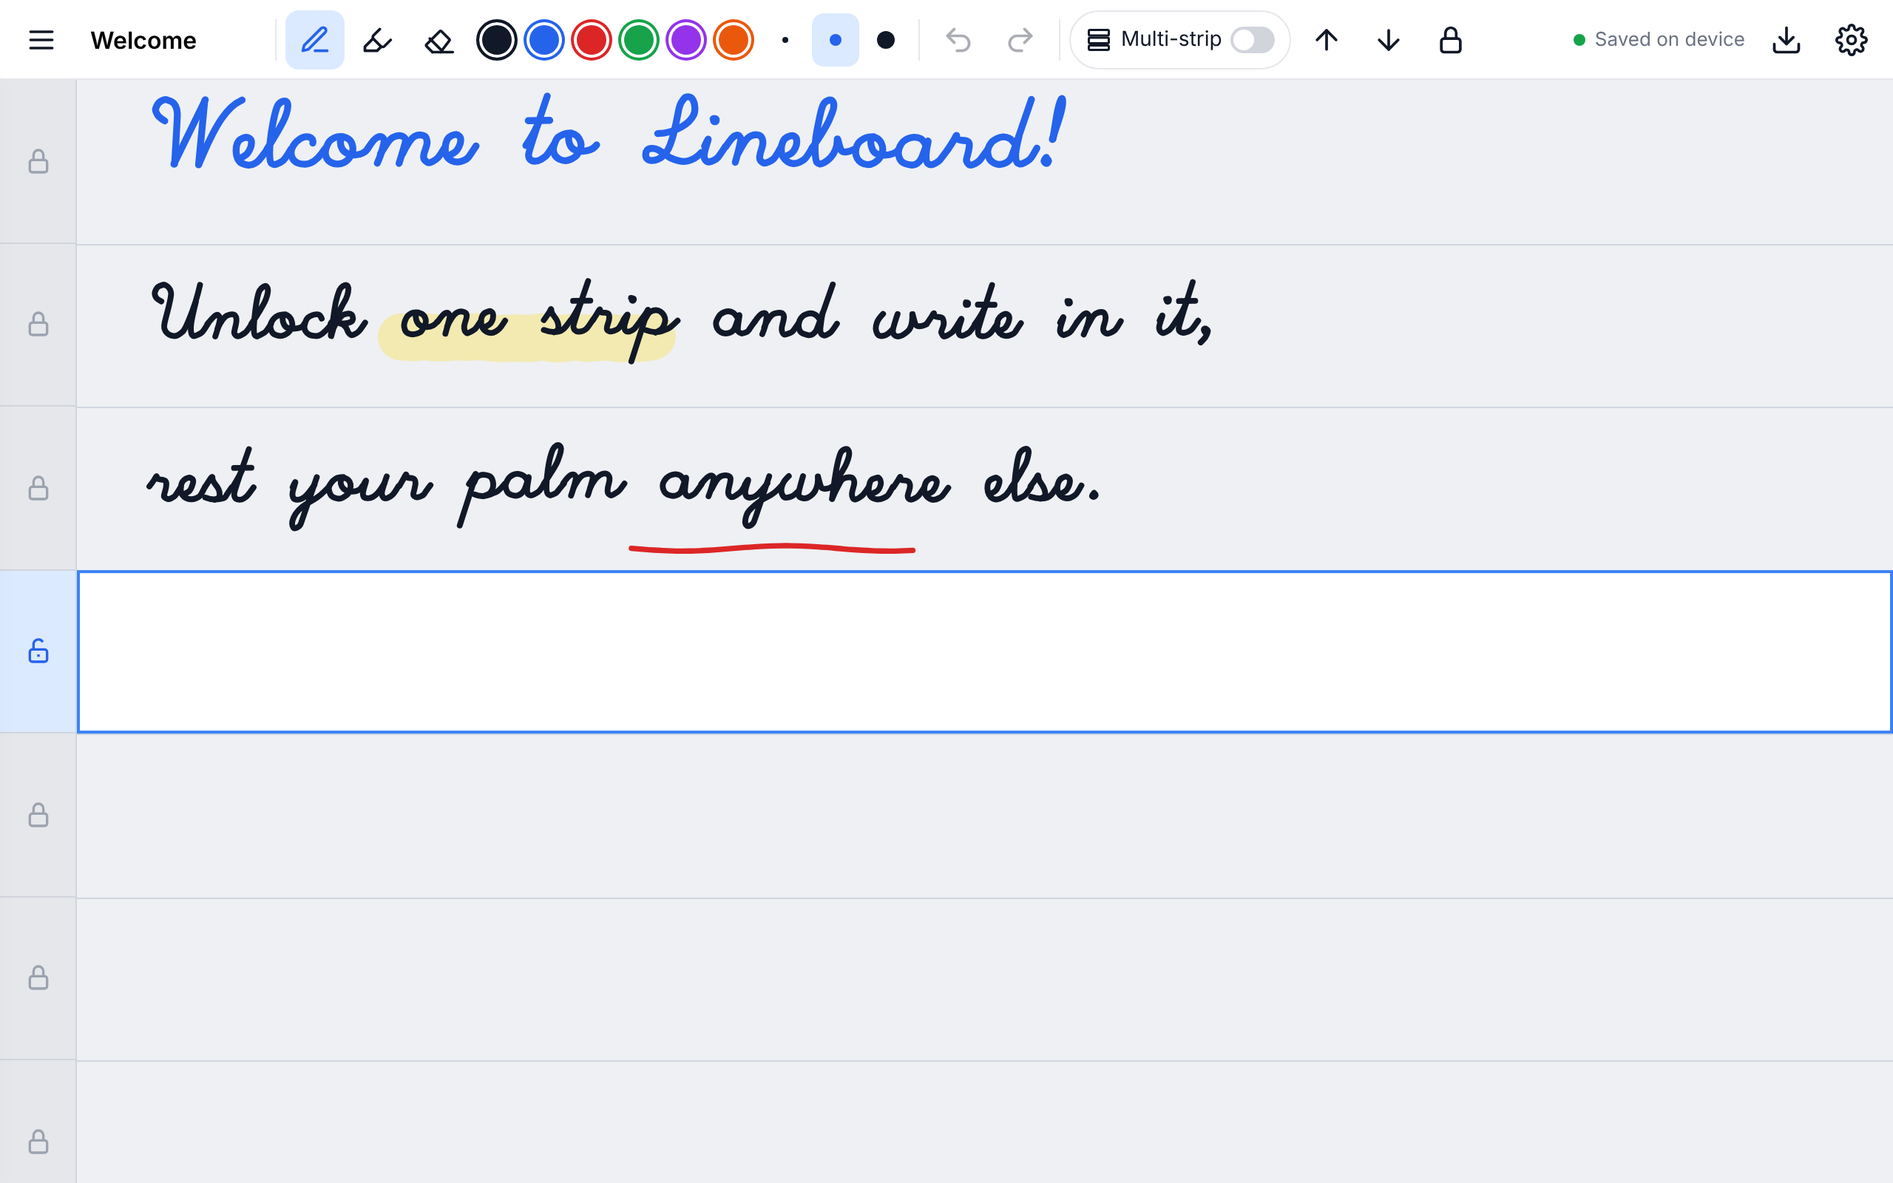
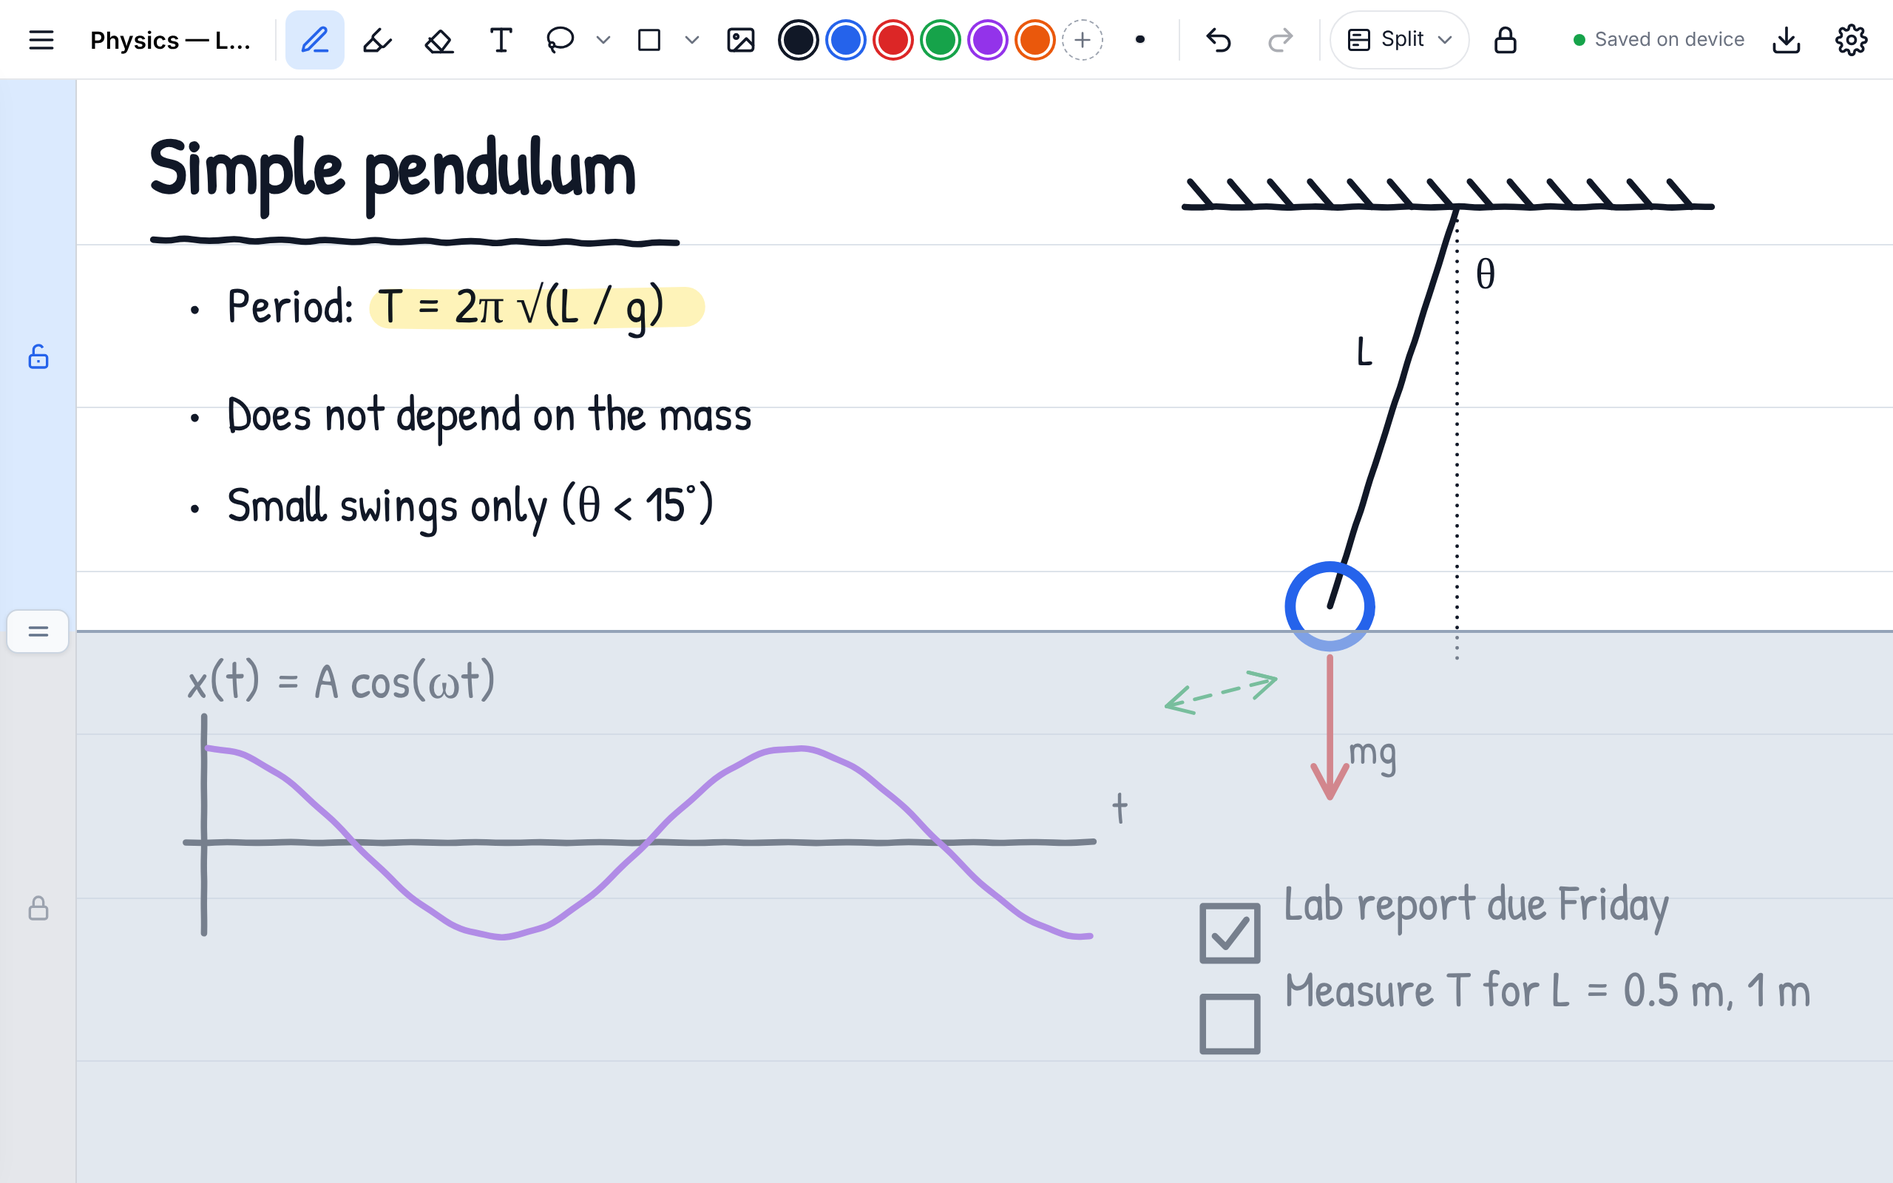
Show-password eye, split mode by default, a new README screenshot
- Every password field (sign-in, sign-up, new password, Confirm it's
  you, Change password, encryption passphrases) gets a show / hide eye.
  Pressing it keeps the caret in the field, and the field goes back to
  hidden when its form is sent.
- New users start in split mode (top half open, bottom half palm-safe);
  the first-visit hint explains split. Saved choices are unchanged.
  Tests start in strips through a shared storage state, plus a test of
  the new default.
- docs/screenshot.png redone: a lecture note in split mode with
  handwritten text, a highlight, a shape diagram, a sine wave and a
  to-do list. `npm run screenshot` regenerates it through the app.

Claude-Session: https://claude.ai/code/session_019x6LTshFfvXQcR2avGtFNo

diff --git a/tests/readme-screenshot.spec.ts b/tests/readme-screenshot.spec.ts
@@ -1,0 +1,125 @@
+import { test, type Page } from '@playwright/test';
+import { send, tp } from './helpers';
+
+/**
+ * Builds the README screenshot (docs/screenshot.png) by writing a page through the app itself.
+ * Skipped in the normal test run; regenerate with `npm run screenshot`.
+ */
+test.skip(!process.env.SCREENSHOT, 'run with npm run screenshot');
+test.use({ viewport: { width: 1280, height: 800 }, deviceScaleFactor: 2, storageState: { cookies: [], origins: [{ origin: 'http://localhost:4173', localStorage: [{ name: 'lb-storage-notice', value: 'true' }, { name: 'lb-hint-dismissed', value: 'true' }, { name: 'lb-settings-local', value: JSON.stringify({ mode: 'free' }) }] }] } });
+
+test('screenshot', async ({ page }) => {
+  test.setTimeout(120_000);
+  await page.goto('/app');
+  await page.locator('.canvas-area[data-note]:not([aria-busy])').waitFor();
+  const cdp = await page.context().newCDPSession(page);
+  const area = (await page.locator('.canvas-area').boundingBox())!;
+  const k = area.width / 1000;
+  const at = (x: number, y: number) => ({ x: area.x + x * k, y: area.y + y * k });
+  const R = 1;
+
+  const stroke = async (pts: [number, number][]) => {
+    const p0 = at(...pts[0]);
+    await send(cdp, 'touchStart', [tp(p0.x, p0.y, R, 1)]);
+    for (const p of pts.slice(1)) {
+      const q = at(...p);
+      await send(cdp, 'touchMove', [tp(q.x, q.y, R, 1)]);
+    }
+    await send(cdp, 'touchEnd', []);
+  };
+  // A slightly wobbly line, like a hand-drawn one.
+  const wobbly = (x0: number, y0: number, x1: number, y1: number, n = 24, amp = 1.2): [number, number][] =>
+    Array.from({ length: n + 1 }, (_, i) => {
+      const t = i / n;
+      return [x0 + (x1 - x0) * t + Math.sin(i * 1.7) * amp * 0.3, y0 + (y1 - y0) * t + Math.sin(i * 2.3) * amp];
+    });
+  const color = async (c: string) => page.getByRole('button', { name: 'Color ' + c }).click();
+  const tool = async (key: string) => page.keyboard.press(key);
+
+  async function text(x: number, y: number, s: string, opts: { size?: 'up' | 'up2' | 'down'; bold?: boolean } = {}) {
+    await tool('t');
+    const p = at(x, y);
+    await send(cdp, 'touchStart', [tp(p.x, p.y, 3, 2)]);
+    await send(cdp, 'touchEnd', []);
+    const bar = page.getByRole('toolbar', { name: 'Text format' });
+    await bar.getByRole('radio', { name: 'Handwriting' }).click();
+    const want = opts.size === 'up2' ? 44 : opts.size === 'up' ? 36 : opts.size === 'down' ? 24 : 28;
+    for (let i = 0; i < 6; i++) {
+      const cur = Number(await bar.locator('.tb-size').textContent());
+      if (cur === want) break;
+      await bar.getByRole('button', { name: cur < want ? 'Larger text' : 'Smaller text' }).click();
+    }
+    const b = bar.getByRole('button', { name: 'Bold' });
+    if ((await b.getAttribute('aria-pressed')) !== String(!!opts.bold)) await b.click();
+    await page.keyboard.type(s);
+    await page.keyboard.press('Escape');
+  }
+
+  async function shape(name: string, x0: number, y0: number, x1: number, y1: number, style = 'Solid', thick = 'Medium') {
+    await page.locator('.shape-btn').click();
+    await page.getByRole('radiogroup', { name: 'Line style' }).getByRole('radio', { name: style }).click();
+    await page.getByRole('radiogroup', { name: 'Thickness' }).getByRole('radio', { name: thick, exact: true }).click();
+    await page.locator('.shape-grid').getByRole('radio', { name, exact: true }).click();
+    await stroke([[x0, y0], [(x0 + x1) / 2, (y0 + y1) / 2], [x1, y1]]);
+  }
+
+  // ---- left: notes ----
+  await color('#111827');
+  await text(40, 40, 'Simple pendulum', { size: 'up2', bold: true });
+  await tool('p');
+  await stroke(wobbly(42, 88, 330, 90, 30, 1.5)); // underline
+  await text(60, 135, '•  Period:  T = 2π √(L / g)');
+  await text(60, 185, '•  Does not depend on the mass');
+  await text(60, 235, '•  Small swings only (θ < 15°)');
+  await tool('h');
+  await stroke([[172, 94], [255, 95], [335, 93]]); // highlight the formula
+  // ---- right: the diagram ----
+  await tool('p');
+  await color('#111827');
+  await stroke(wobbly(610, 70, 900, 70, 30, 0.8)); // ceiling
+  for (let x = 625; x < 900; x += 22) await stroke([[x, 70], [x - 12, 56]]); // hatching
+  await stroke(wobbly(760, 70, 690, 290, 26, 0.6)); // string
+  await shape('Line', 760, 72, 760, 320, 'Dotted', 'Thin'); // rest position
+  await color('#2563eb');
+  await shape('Ellipse', 668, 268, 712, 312, 'Solid', 'Bold'); // bob
+  await color('#dc2626');
+  await shape('Arrow line', 690, 318, 690, 395, 'Solid', 'Medium'); // weight
+  await color('#111827');
+  await text(700, 372, 'mg', { size: 'down' });
+  await text(705, 150, 'L', { size: 'down' });
+  await text(770, 108, 'θ', { size: 'down' });
+  await color('#16a34a');
+  await shape('Double arrow line', 600, 345, 660, 330, 'Dashed', 'Thin'); // swing
+
+  // ---- lower: the motion ----
+  await color('#111827');
+  await text(60, 330, 'x(t) = A cos(ωt)');
+  await tool('p');
+  await stroke(wobbly(60, 420, 560, 420, 40, 0.6)); // time axis
+  await stroke(wobbly(70, 470, 70, 350, 20, 0.5)); // x axis
+  await color('#9333ea');
+  const wave: [number, number][] = [];
+  for (let i = 0; i <= 90; i++) {
+    const x = 72 + i * 5.4;
+    wave.push([x, 420 - 52 * Math.cos(i / 9.5) + Math.sin(i * 1.3) * 0.6]);
+  }
+  await stroke(wave);
+  await color('#111827');
+  await text(570, 405, 't', { size: 'down' });
+
+  // ---- to-do, bottom right ----
+  await shape('Check box', 620, 455, 650, 485, 'Solid', 'Medium');
+  await text(665, 452, 'Lab report due Friday');
+  await shape('Rectangle', 620, 505, 650, 535, 'Solid', 'Medium');
+  await text(665, 502, 'Measure T for L = 0.5 m, 1 m');
+
+  // Title, then the default mode: split (top half open, bottom half palm-safe).
+  await page.locator('.title-input').fill('Physics — Lecture 4');
+  await page.locator('.title-input').press('Enter');
+  await page.locator('.mode-btn').click();
+  await page.getByRole('menuitemradio', { name: /^Split/ }).click();
+  await page.keyboard.press('p');
+  await page.mouse.move(0, 0);
+  await page.waitForTimeout(3500); // let the mode toast fade
+  await page.screenshot({ path: 'docs/screenshot.png' });
+});

diff --git a/src/auth.ts b/src/auth.ts
@@ -1,5 +1,5 @@
 import type { SupabaseClient } from '@supabase/supabase-js';
-import { h } from './util';
+import { h, withReveal } from './util';
 import { publicFooter } from './public';
 import { logo } from './brand';
 import { passkeysSupported } from './account';
@@ -33,7 +33,7 @@ export function renderAuth(root: HTMLElement, sb: SupabaseClient, opts: AuthOpti
   const extra = h('div', { class: 'auth-extra' });
   // Bot check (only when configured): sign-in, sign-up, email links, resets and passkeys need a token.
   const captcha = new Captcha();
-  const form = h('form', { class: 'auth-form' }, h('label', {}, 'Email', email), h('label', { class: 'password-label' }, 'Password', pass), agreement, captcha.el, submit);
+  const form = h('form', { class: 'auth-form' }, h('label', {}, 'Email', email), h('label', { class: 'password-label' }, 'Password', withReveal(pass)), agreement, captcha.el, submit);
 
   const setMsg = (t: string, kind: 'ok' | 'err' = 'ok') => {
     msg.textContent = t;
@@ -188,7 +188,7 @@ export function renderAuth(root: HTMLElement, sb: SupabaseClient, opts: AuthOpti
 export function renderNewPassword(root: HTMLElement, sb: SupabaseClient, done: () => void) {
   const pass = h('input', { type: 'password', placeholder: `New password (at least ${MIN_PASSWORD} characters)`, autocomplete: 'new-password', minlength: String(MIN_PASSWORD), required: true }) as HTMLInputElement;
   const msg = h('p', { class: 'auth-msg' });
-  const form = h('form', { class: 'auth-form' }, pass, h('button', { class: 'btn primary wide', type: 'submit' }, 'Set new password'));
+  const form = h('form', { class: 'auth-form' }, h('label', {}, 'New password', withReveal(pass)), h('button', { class: 'btn primary wide', type: 'submit' }, 'Set new password'));
   const others = h('input', { type: 'checkbox', checked: true }) as HTMLInputElement;
   form.insertBefore(h('label', { class: 'set-check' }, others, h('span', {}, 'Sign out all other devices')), form.lastChild);
   form.addEventListener('submit', async (e) => {

diff --git a/src/util.ts b/src/util.ts
@@ -1,3 +1,4 @@
+import { icons } from './icons';
 export function uuid(): string {
   if (typeof crypto.randomUUID === 'function') return crypto.randomUUID();
   const b = crypto.getRandomValues(new Uint8Array(16));
@@ -20,6 +21,35 @@ export function h<K extends keyof HTMLElementTagNameMap>(
   }
   for (const c of children) if (c != null) e.append(c);
   return e;
+}
+
+/**
+ * A password field with a show / hide button (the eye), so a typing mistake can be checked.
+ * Pressing it keeps the caret in the field; the field goes back to hidden when the form is sent.
+ */
+export function withReveal(input: HTMLInputElement): HTMLElement {
+  const btn = h('button', { class: 'reveal-btn', type: 'button', 'aria-label': 'Show password', 'aria-pressed': 'false', title: 'Show password' }) as HTMLButtonElement;
+  const paint = () => {
+    const shown = input.type === 'text';
+    btn.innerHTML = shown ? icons.eyeOff : icons.eye;
+    btn.setAttribute('aria-label', shown ? 'Hide password' : 'Show password');
+    btn.title = shown ? 'Hide password' : 'Show password';
+    btn.setAttribute('aria-pressed', String(shown));
+  };
+  btn.addEventListener('pointerdown', (e) => e.preventDefault()); // keep focus in the field
+  btn.addEventListener('click', () => {
+    input.type = input.type === 'password' ? 'text' : 'password';
+    paint();
+  });
+  // Never leave a password showing once it has been used (the field joins its form right after).
+  queueMicrotask(() =>
+    input.form?.addEventListener('submit', () => {
+      input.type = 'password';
+      paint();
+    }),
+  );
+  paint();
+  return h('span', { class: 'reveal' }, input, btn);
 }
 
 export function debounce<A extends unknown[]>(fn: (...a: A) => void, ms: number) {

diff --git a/src/styles.css b/src/styles.css
@@ -271,6 +271,17 @@ kbd { font: 12px ui-monospace, monospace; background: var(--bg); border: 1px sol
 .unlock-links { display: flex; flex-wrap: wrap; justify-content: space-between; gap: 10px; font-size: 14px; padding-top: 12px; border-top: 1px solid var(--line); }
 .unlock-card input.mono { text-transform: uppercase; }
 
+/* Password fields: the show / hide eye inside the right edge (util.ts withReveal). */
+.reveal { position: relative; display: block; width: 100%; }
+.reveal > input { width: 100%; padding-right: 44px; }
+.reveal-btn {
+  position: absolute; top: 50%; right: 4px; transform: translateY(-50%); width: 36px; height: 36px;
+  display: grid; place-items: center; border: 0; border-radius: 8px; background: transparent; color: var(--muted, #6b7280); cursor: pointer;
+}
+.reveal-btn svg { width: 20px; height: 20px; }
+.reveal-btn:hover, .reveal-btn[aria-pressed=true] { color: var(--ink, #111827); }
+.reveal-btn:focus-visible { outline: 2px solid var(--accent, #2563eb); outline-offset: 1px; }
+
 /* One-time notice about browser storage (see storageNotice.ts). */
 .storage-notice {
   position: fixed; left: 12px; bottom: 12px; z-index: 90; max-width: min(440px, calc(100vw - 24px));

diff --git a/tests/security.spec.ts b/tests/security.spec.ts
@@ -77,3 +77,22 @@ test('new passwords need at least 8 characters; signing in still takes an older,
   await fillSignIn(page, 'old123');
   await attachBoard(page);
 });
+
+test('password fields have a show / hide eye, and go back to hidden once submitted', async ({ page }) => {
+  await mockSupabase(page);
+  await page.goto('/signup');
+  const pass = page.getByLabel('Password', { exact: true });
+  await pass.fill('my secret pass');
+  await expect(pass).toHaveAttribute('type', 'password');
+  const eye = page.getByRole('button', { name: 'Show password' });
+  await eye.click();
+  await expect(pass).toHaveAttribute('type', 'text');
+  await expect(pass).toBeFocused(); // pressing the eye keeps typing in the field
+  await page.getByRole('button', { name: 'Hide password' }).click();
+  await expect(pass).toHaveAttribute('type', 'password');
+  // Shown, then the form is sent: hidden again.
+  await page.getByRole('button', { name: 'Show password' }).click();
+  await page.getByLabel('Email', { exact: true }).fill('new@example.com');
+  await page.getByRole('button', { name: 'Create account' }).click();
+  await expect(pass).toHaveAttribute('type', 'password');
+});

diff --git a/src/app.ts b/src/app.ts
@@ -344,8 +344,12 @@ export class App {
     // Board
     const boardHost = h('div', { class: 'board-host' });
     this.hint = h('div', { class: 'hint' });
-    this.hint.innerHTML =
-      '<b>How it works:</b> tap a 🔒 in the margin to unlock one strip. Only that strip takes ink, so rest your palm anywhere else. Drag the margin to scroll. <button type="button" class="link">Got it</button>';
+    // The first-visit explanation matches the mode the page opens in (split, for new users).
+    const how =
+      this.settings.mode === 'split'
+        ? 'write in the open half of the screen and rest your palm on the locked half. Tap a 🔒 in the margin to switch halves; drag the margin to scroll.'
+        : 'tap a 🔒 in the margin to unlock one strip. Only that strip takes ink, so rest your palm anywhere else. Drag the margin to scroll.';
+    this.hint.innerHTML = `<b>How it works:</b> ${how} <button type="button" class="link">Got it</button>`;
     this.hint.querySelector('button')!.addEventListener('click', () => {
       this.hint.remove();
       lsSet('lb-hint-dismissed', true);

diff --git a/tests/images.spec.ts b/tests/images.spec.ts
@@ -1,4 +1,5 @@
 import { readFileSync } from 'node:fs';
+import { TEST_STORAGE } from './storageState';
 import { expect, test, type Browser, type CDPSession, type Page } from '@playwright/test';
 import { PEN, drag, expectStrokes, send, setup, tp } from './helpers';
 import { USER_ID, mockSupabase, type MockDb } from './mockSupabase';
@@ -148,7 +149,7 @@ async function turnOnEncryption(page: Page, expectDone = 'Your notes are encrypt
 }
 
 async function otherDevice(browser: Browser, db: MockDb) {
-  const context = await browser.newContext({ baseURL: 'http://localhost:4173', viewport: { width: 800, height: 1280 }, hasTouch: true, serviceWorkers: 'block', storageState: { cookies: [], origins: [{ origin: 'http://localhost:4173', localStorage: [{ name: 'lb-storage-notice', value: 'true' }] }] } });
+  const context = await browser.newContext({ baseURL: 'http://localhost:4173', viewport: { width: 800, height: 1280 }, hasTouch: true, serviceWorkers: 'block', storageState: TEST_STORAGE });
   const page = await context.newPage();
   await mockSupabase(page, db);
   return page;

diff --git a/tests/account.spec.ts b/tests/account.spec.ts
@@ -1,4 +1,5 @@
 import { expect, test, type Browser, type Page } from '@playwright/test';
+import { TEST_STORAGE } from './storageState';
 import { MOCK_TOTP, mockSupabase, recoveryHash, type MockDb } from './mockSupabase';
 
 /** Signed-in devices, password changes, two-step verification (authenticator app) and passkeys. */
@@ -13,7 +14,7 @@ async function signIn(page: Page) {
 }
 
 async function otherDevice(browser: Browser, db: MockDb, userAgent = ANDROID) {
-  const context = await browser.newContext({ baseURL: 'http://localhost:4173', viewport: { width: 800, height: 1280 }, hasTouch: true, serviceWorkers: 'block', storageState: { cookies: [], origins: [{ origin: 'http://localhost:4173', localStorage: [{ name: 'lb-storage-notice', value: 'true' }] }] }, userAgent });
+  const context = await browser.newContext({ baseURL: 'http://localhost:4173', viewport: { width: 800, height: 1280 }, hasTouch: true, serviceWorkers: 'block', storageState: TEST_STORAGE, userAgent });
   const page = await context.newPage();
   await mockSupabase(page, db);
   return page;

diff --git a/src/encryptionUi.ts b/src/encryptionUi.ts
@@ -2,7 +2,7 @@ import { AccountError } from './account';
 import { logo } from './brand';
 import { MIN_PASSPHRASE, WrongSecretError, type KeyVault } from './crypto/vault';
 import type { SupabaseStore } from './store/supabaseStore';
-import { h, toast } from './util';
+import { h, toast, withReveal } from './util';
 
 /**
  * Screens and dialogs for end-to-end encryption: turning it on (with a recovery key), unlocking
@@ -12,7 +12,8 @@ import { h, toast } from './util';
 // ----------------------------- small building blocks -----------------------------
 
 export function field(label: string, input: HTMLInputElement, help?: string) {
-  return h('label', { class: 'enc-field' }, h('span', {}, label), input, help ? h('small', {}, help) : null);
+  // Password fields get the show / hide eye.
+  return h('label', { class: 'enc-field' }, h('span', {}, label), input.type === 'password' ? withReveal(input) : input, help ? h('small', {}, help) : null);
 }
 
 export function passInput(autocomplete: 'current-password' | 'new-password', placeholder = '') {

diff --git a/tests/encryption.spec.ts b/tests/encryption.spec.ts
@@ -1,4 +1,5 @@
 import { expect, test, type Browser, type Page } from '@playwright/test';
+import { TEST_STORAGE } from './storageState';
 import { attachBoard, drag, stripY } from './helpers';
 import { mockSupabase, type MockDb } from './mockSupabase';
 
@@ -15,7 +16,7 @@ async function signIn(page: Page) {
 
 /** A second device: a fresh browser context sharing the same mock database. */
 async function otherDevice(browser: Browser, db: MockDb) {
-  const context = await browser.newContext({ baseURL: 'http://localhost:4173', viewport: { width: 800, height: 1280 }, hasTouch: true, serviceWorkers: 'block', storageState: { cookies: [], origins: [{ origin: 'http://localhost:4173', localStorage: [{ name: 'lb-storage-notice', value: 'true' }] }] } });
+  const context = await browser.newContext({ baseURL: 'http://localhost:4173', viewport: { width: 800, height: 1280 }, hasTouch: true, serviceWorkers: 'block', storageState: TEST_STORAGE });
   const page = await context.newPage();
   await mockSupabase(page, db);
   return page;

diff --git a/playwright.config.ts b/playwright.config.ts
@@ -1,4 +1,5 @@
 import { defineConfig } from '@playwright/test';
+import { TEST_STORAGE } from './tests/storageState';
 
 export default defineConfig({
   testDir: 'tests',
@@ -14,8 +15,8 @@ export default defineConfig({
     hasTouch: true,
     // Request mocks (tests/mockSupabase.ts) can't see requests made by the app's service worker.
     serviceWorkers: 'block',
-    // The one-time storage notice is dismissed (tests/privacy.spec.ts covers it with fresh storage).
-    storageState: { cookies: [], origins: [{ origin: 'http://localhost:4173', localStorage: [{ name: 'lb-storage-notice', value: 'true' }] }] },
+    // Notice dismissed, strips mode (see tests/storageState.ts).
+    storageState: TEST_STORAGE,
     launchOptions: process.env.CHROME_PATH ? { executablePath: process.env.CHROME_PATH } : {},
   },
   webServer: {

diff --git a/src/icons.ts b/src/icons.ts
@@ -3,6 +3,8 @@ const svg = (body: string) =>
 
 export const icons = {
   menu: svg('<path d="M4 6h16M4 12h16M4 18h16"/>'),
+  eye: svg('<path d="M2 12s3.6-7 10-7 10 7 10 7-3.6 7-10 7S2 12 2 12Z"/><circle cx="12" cy="12" r="3"/>'),
+  eyeOff: svg('<path d="M9.9 5.2A10.4 10.4 0 0 1 12 5c6.4 0 10 7 10 7a17 17 0 0 1-2.4 3.4M6.6 6.6A17 17 0 0 0 2 12s3.6 7 10 7a9.7 9.7 0 0 0 5.4-1.6"/><path d="M9.9 9.9a3 3 0 0 0 4.2 4.2"/><path d="m2 2 20 20"/>'),
   pen: svg('<path d="M12 20h9"/><path d="M16.5 3.5a2.1 2.1 0 0 1 3 3L7 19l-4 1 1-4Z"/>'),
   highlighter: svg('<path d="m9 11-6 6v3h9l3-3"/><path d="m22 12-4.6 4.6a2 2 0 0 1-2.8 0l-5.2-5.2a2 2 0 0 1 0-2.8L14 4"/>'),
   eraser: svg('<path d="m7 21-4.3-4.3a1 1 0 0 1 0-1.4l9.6-9.6a1 1 0 0 1 1.4 0l5.6 5.6a1 1 0 0 1 0 1.4L13 21"/><path d="M22 21H7"/><path d="m5 11 9 9"/>'),
